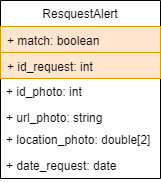
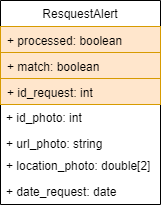
Atualizacao do arquivo de apresentacao do repositorio, explicacao do meio de envio de uma requisicao de procesasmento para a aplicacao

diff --git a/README.md b/README.md
@@ -1,7 +1,7 @@
 # API-RECONHECIMENTO
 
 ### Depedencias
-A aplicação tem como base a biblioteca disponibilizada por [Adam Geitgey](https://github.com/ageitgey/face_recognition). Sendo assim necessaria instalação da biblioteca disponibilizada no link.
+A aplicação tem como base a biblioteca disponibilizada por [Adam Geitgey](https://github.com/ageitgey/face_recognition). Sendo assim necessaria instalação da biblioteca disponibilizada no link.<br>
 
 
 
@@ -12,7 +12,14 @@ Apos a instalação da biblioteca basta clonar o repositorio e executar os segui
 api-reconhecimento$ python Treinamento/train_code.py
 api-reconhecimento$ python Reconhecimento/recognition_code.py
 ```
-Os comando devem ser executados na orde exposta, uma vez que é necessario o arquivo de reinamento gerado atraves do primeiro comando executado.
+Os comando devem ser executados na orde exposta, uma vez que é necessario o arquivo de reinamento gerado atraves do primeiro comando executado.<br>
 
 Atualmente a aplicação não esta fazendo uso de banco de dados, os dados  utilizados, tanto para treinamento e reconhecimento estao sendo extraidos a partir de diretorios no projeto, as imagens para treinamento deve estar dentro da pasta [train_img](https://github.com/gps20191/api-reconhecimento/tree/master/train_img), pasta na qual onde deve ser criada uma outra pasta com o nome da pessoa no qual irá ser informada as fotos do rosto da mesma, essas fotos devem ter somente a pessoa em questao, tendo assim tendo apenas os dados referente ao rosto da pessoa X.
-Para efetuar o reconhecimento as imagens devem estar na pastar [test](https://github.com/gps20191/api-reconhecimento/tree/master/test), nesta pasta nao é necessario nenhuma outra operação apenas a adição das imagens na qual a aplicação deve fazer o reconhecimento.
+Para efetuar o reconhecimento as imagens devem estar na pastar [test](https://github.com/gps20191/api-reconhecimento/tree/master/test), nesta pasta nao é necessario nenhuma outra operação apenas a adição das imagens na qual a aplicação deve fazer o reconhecimento.<br>
+
+### Envio de imagem para processamento
+Para o envio de uma imagem para o processamento, a aplicação "app-mobile" deve efetuar uma requisição POST atraves da URL {link api aqui} informando os seguintes dados.<br>
+<p align="center">
+<img src="https://github.com/gps20191/api-reconhecimento/blob/master/DOC_APP/Imagens/POST_RECEIVE.png"> <br>
+<em>Os campos coloridos não devem ser informado para o usuario, é apenas o escopo de como deve ser guardado no banco de dados.</em> 
+</p>
